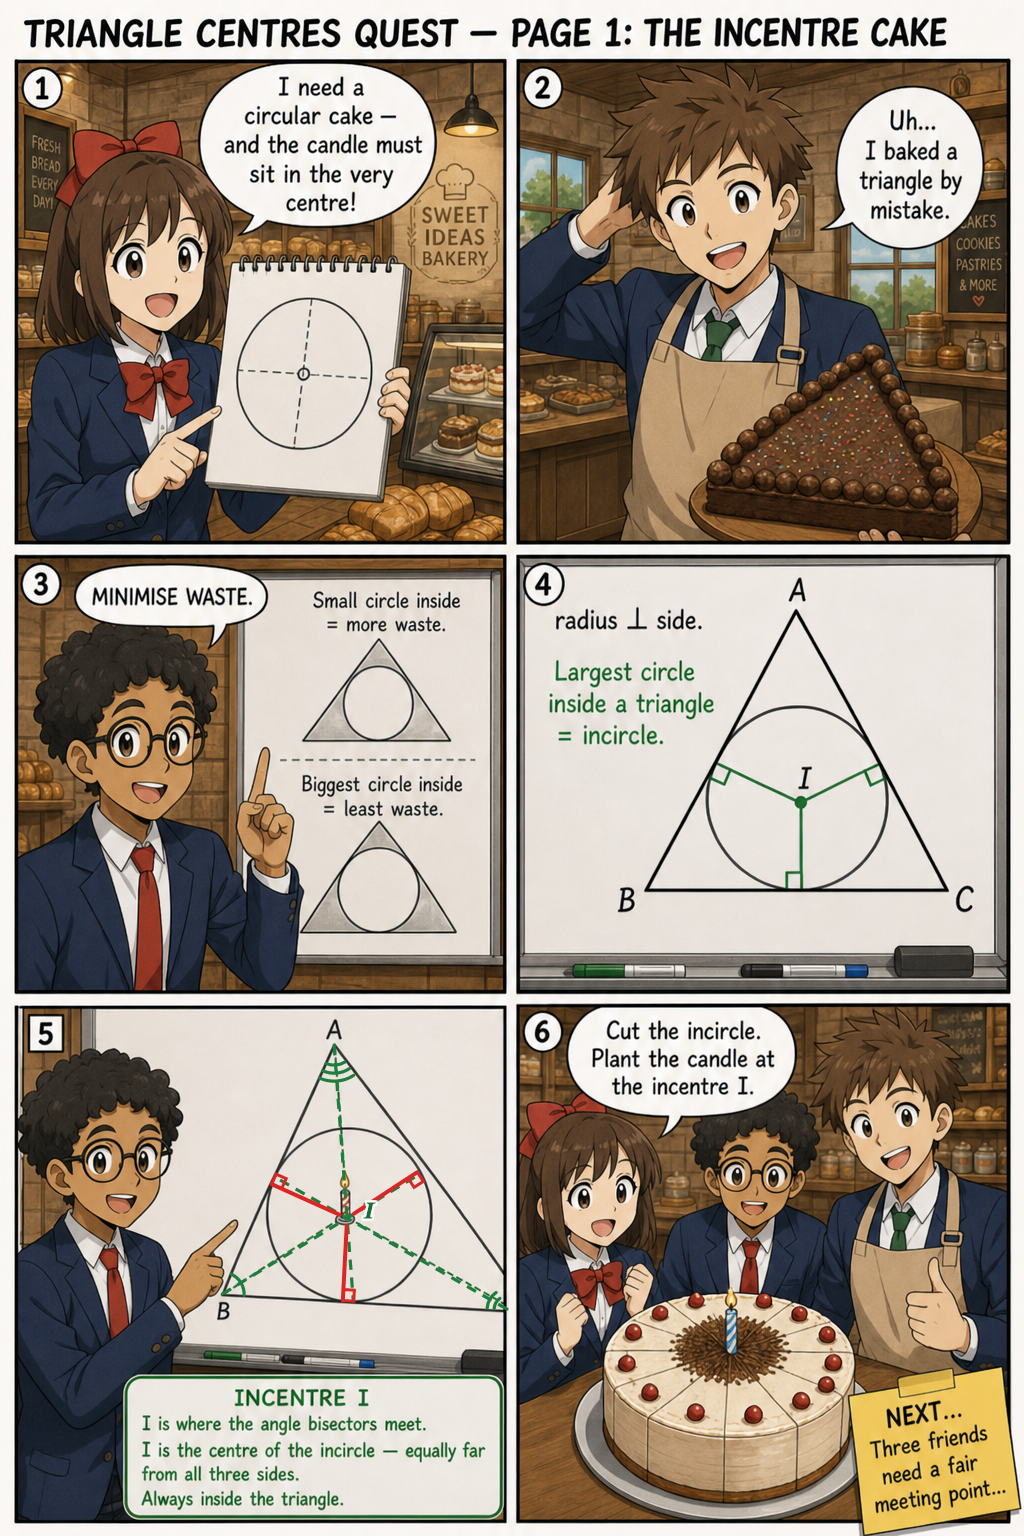
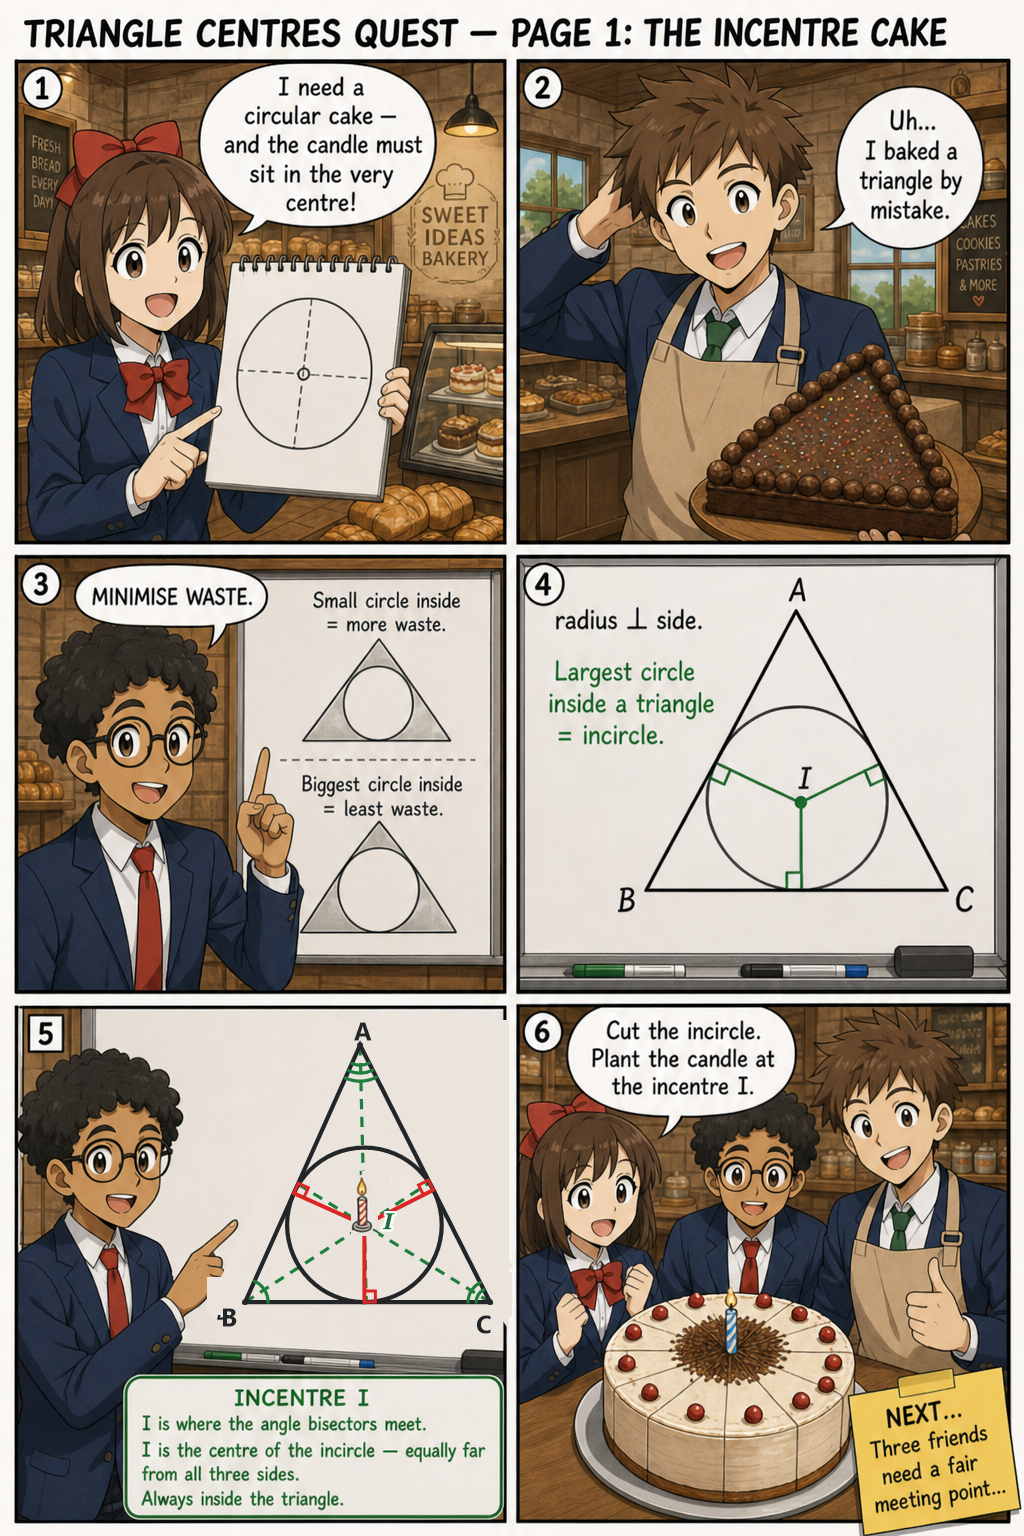
Rebuild the in-centre triangle with an exact tangent incircle.

Changed region(s): [[0.1875, 0.6562, 0.5, 0.875]]

diff --git a/topics/triangle_centres/comics-manifest.js b/topics/triangle_centres/comics-manifest.js
@@ -49,7 +49,7 @@ window.JM28_COMICS = {
       {
         id: "quest1",
         title: "Real life 1 — Incentre: the biggest cake circle",
-        file: "quest-01-incentre-cake.png?v=20260906-bisectors-fixed",
+        file: "quest-01-incentre-cake.png?v=20260906-exact-incircle",
       },
       {
         id: "quest2",
